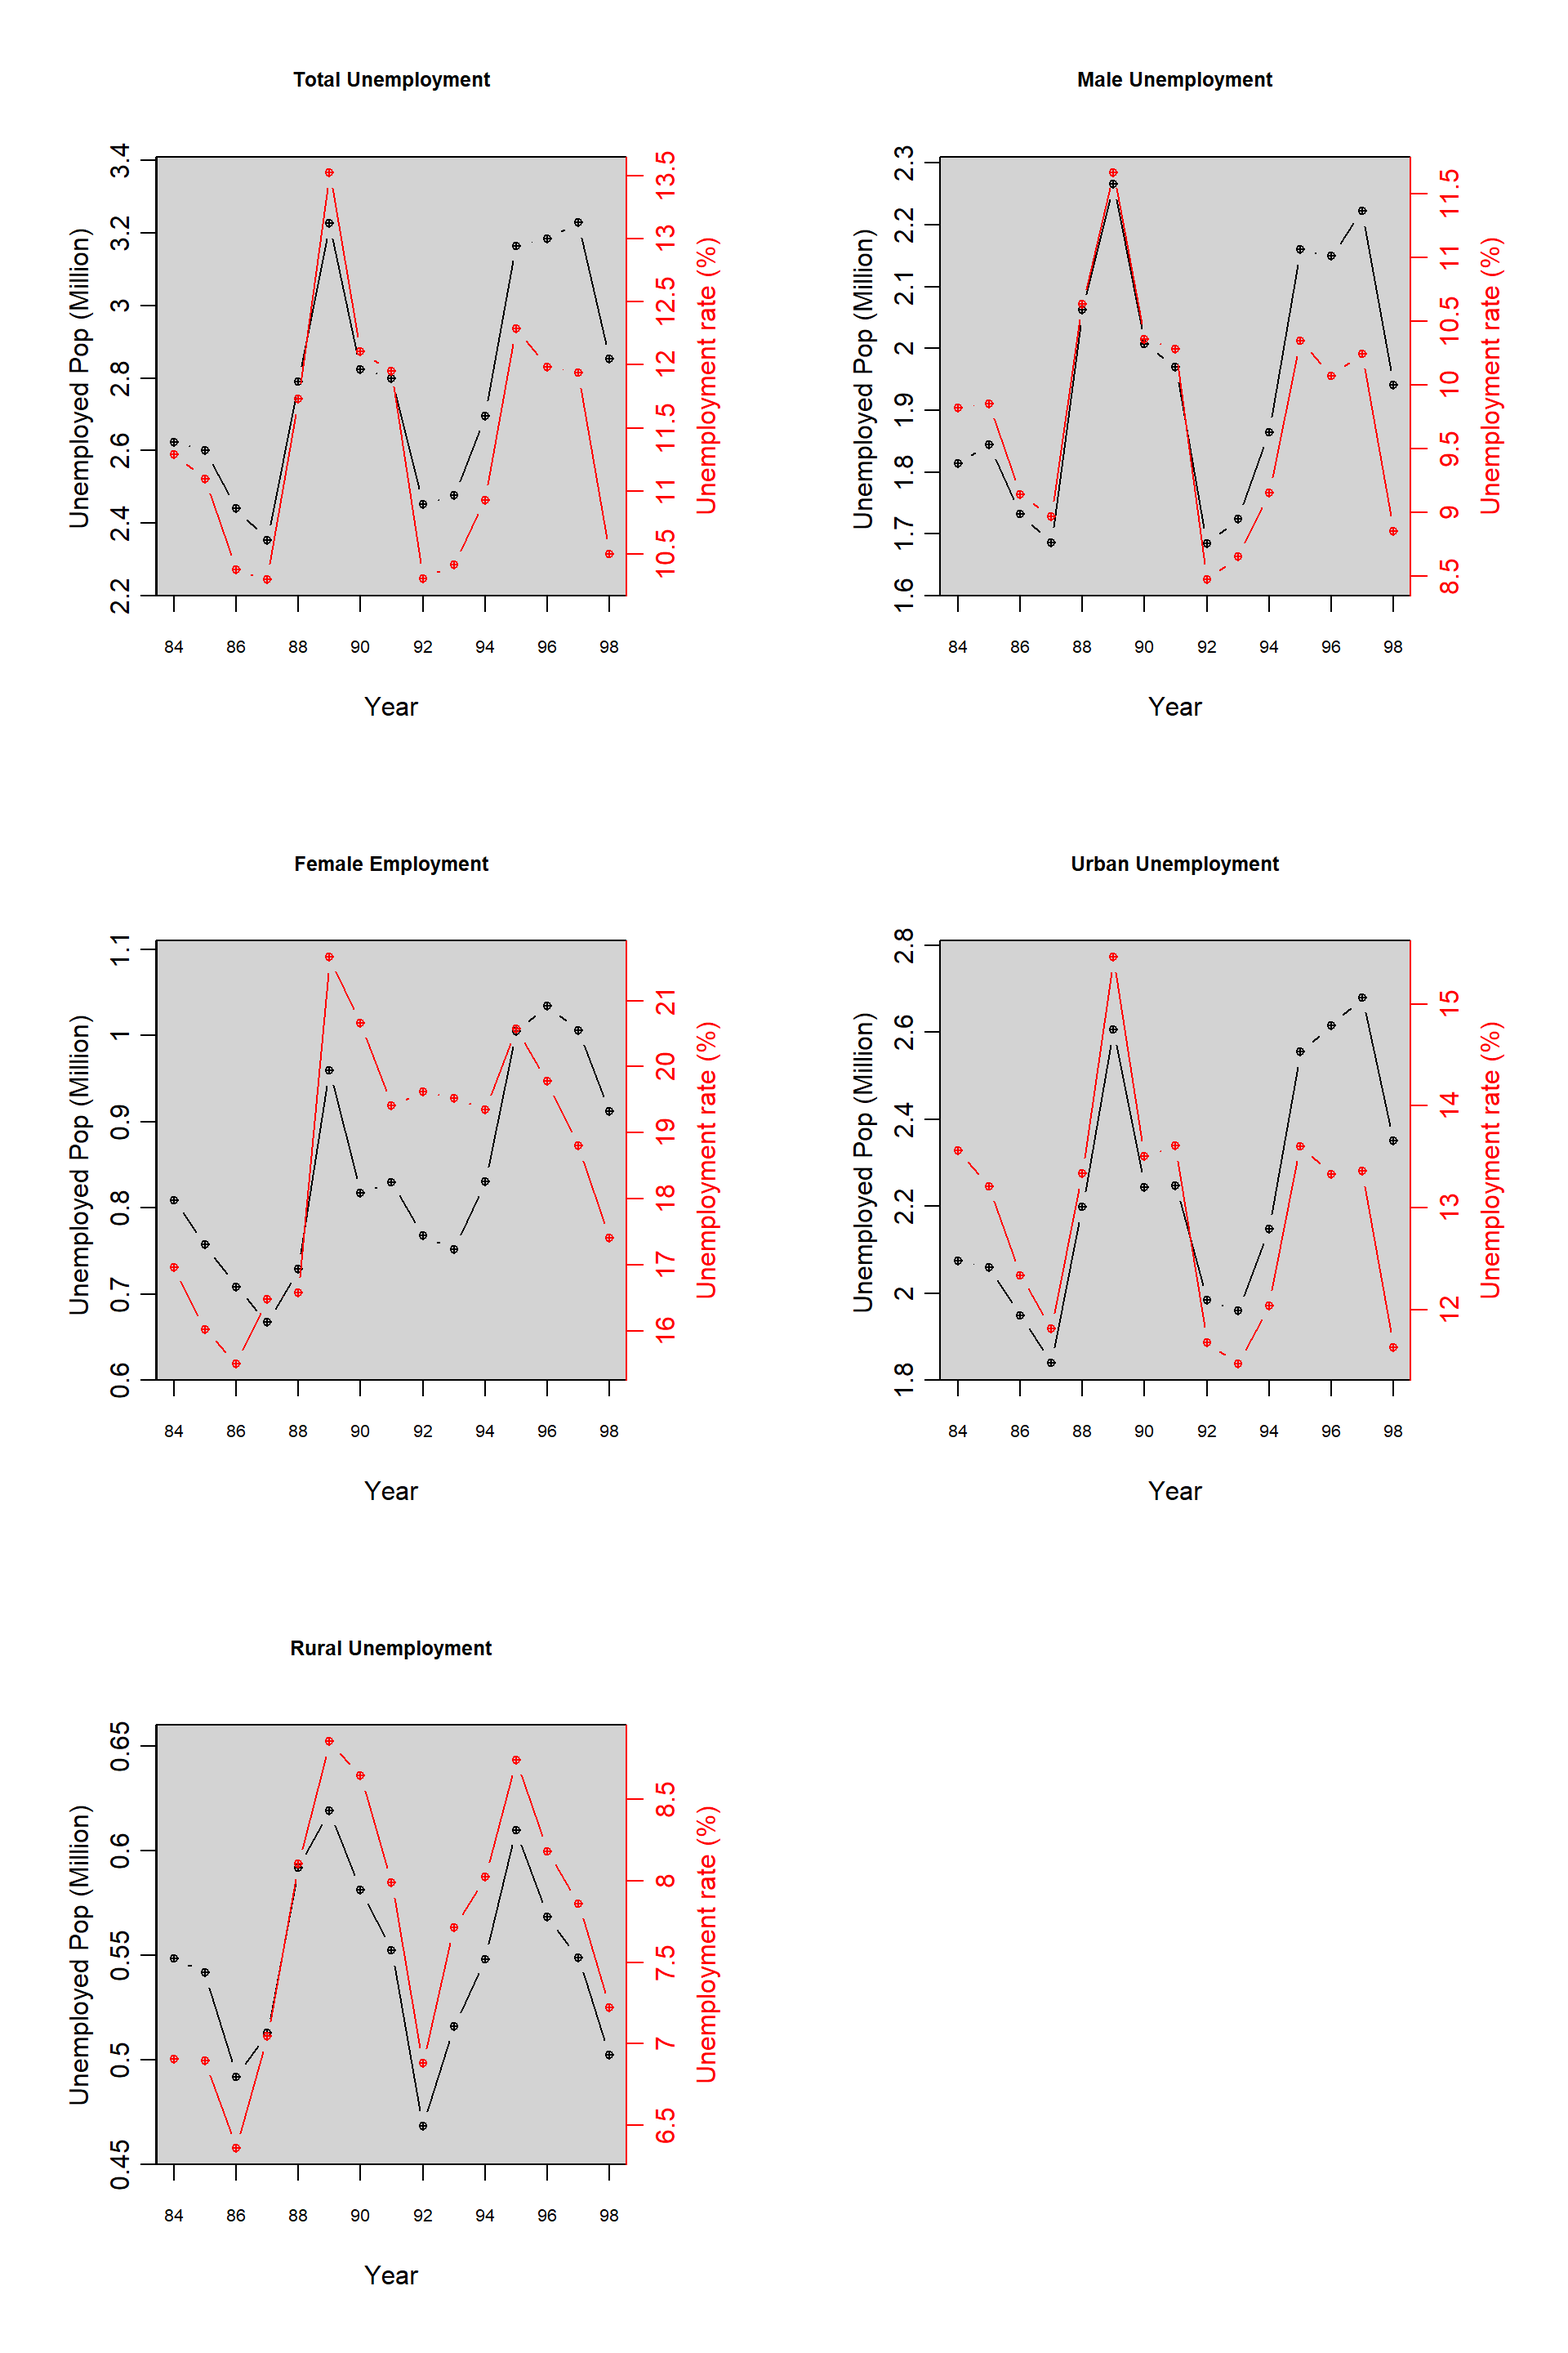
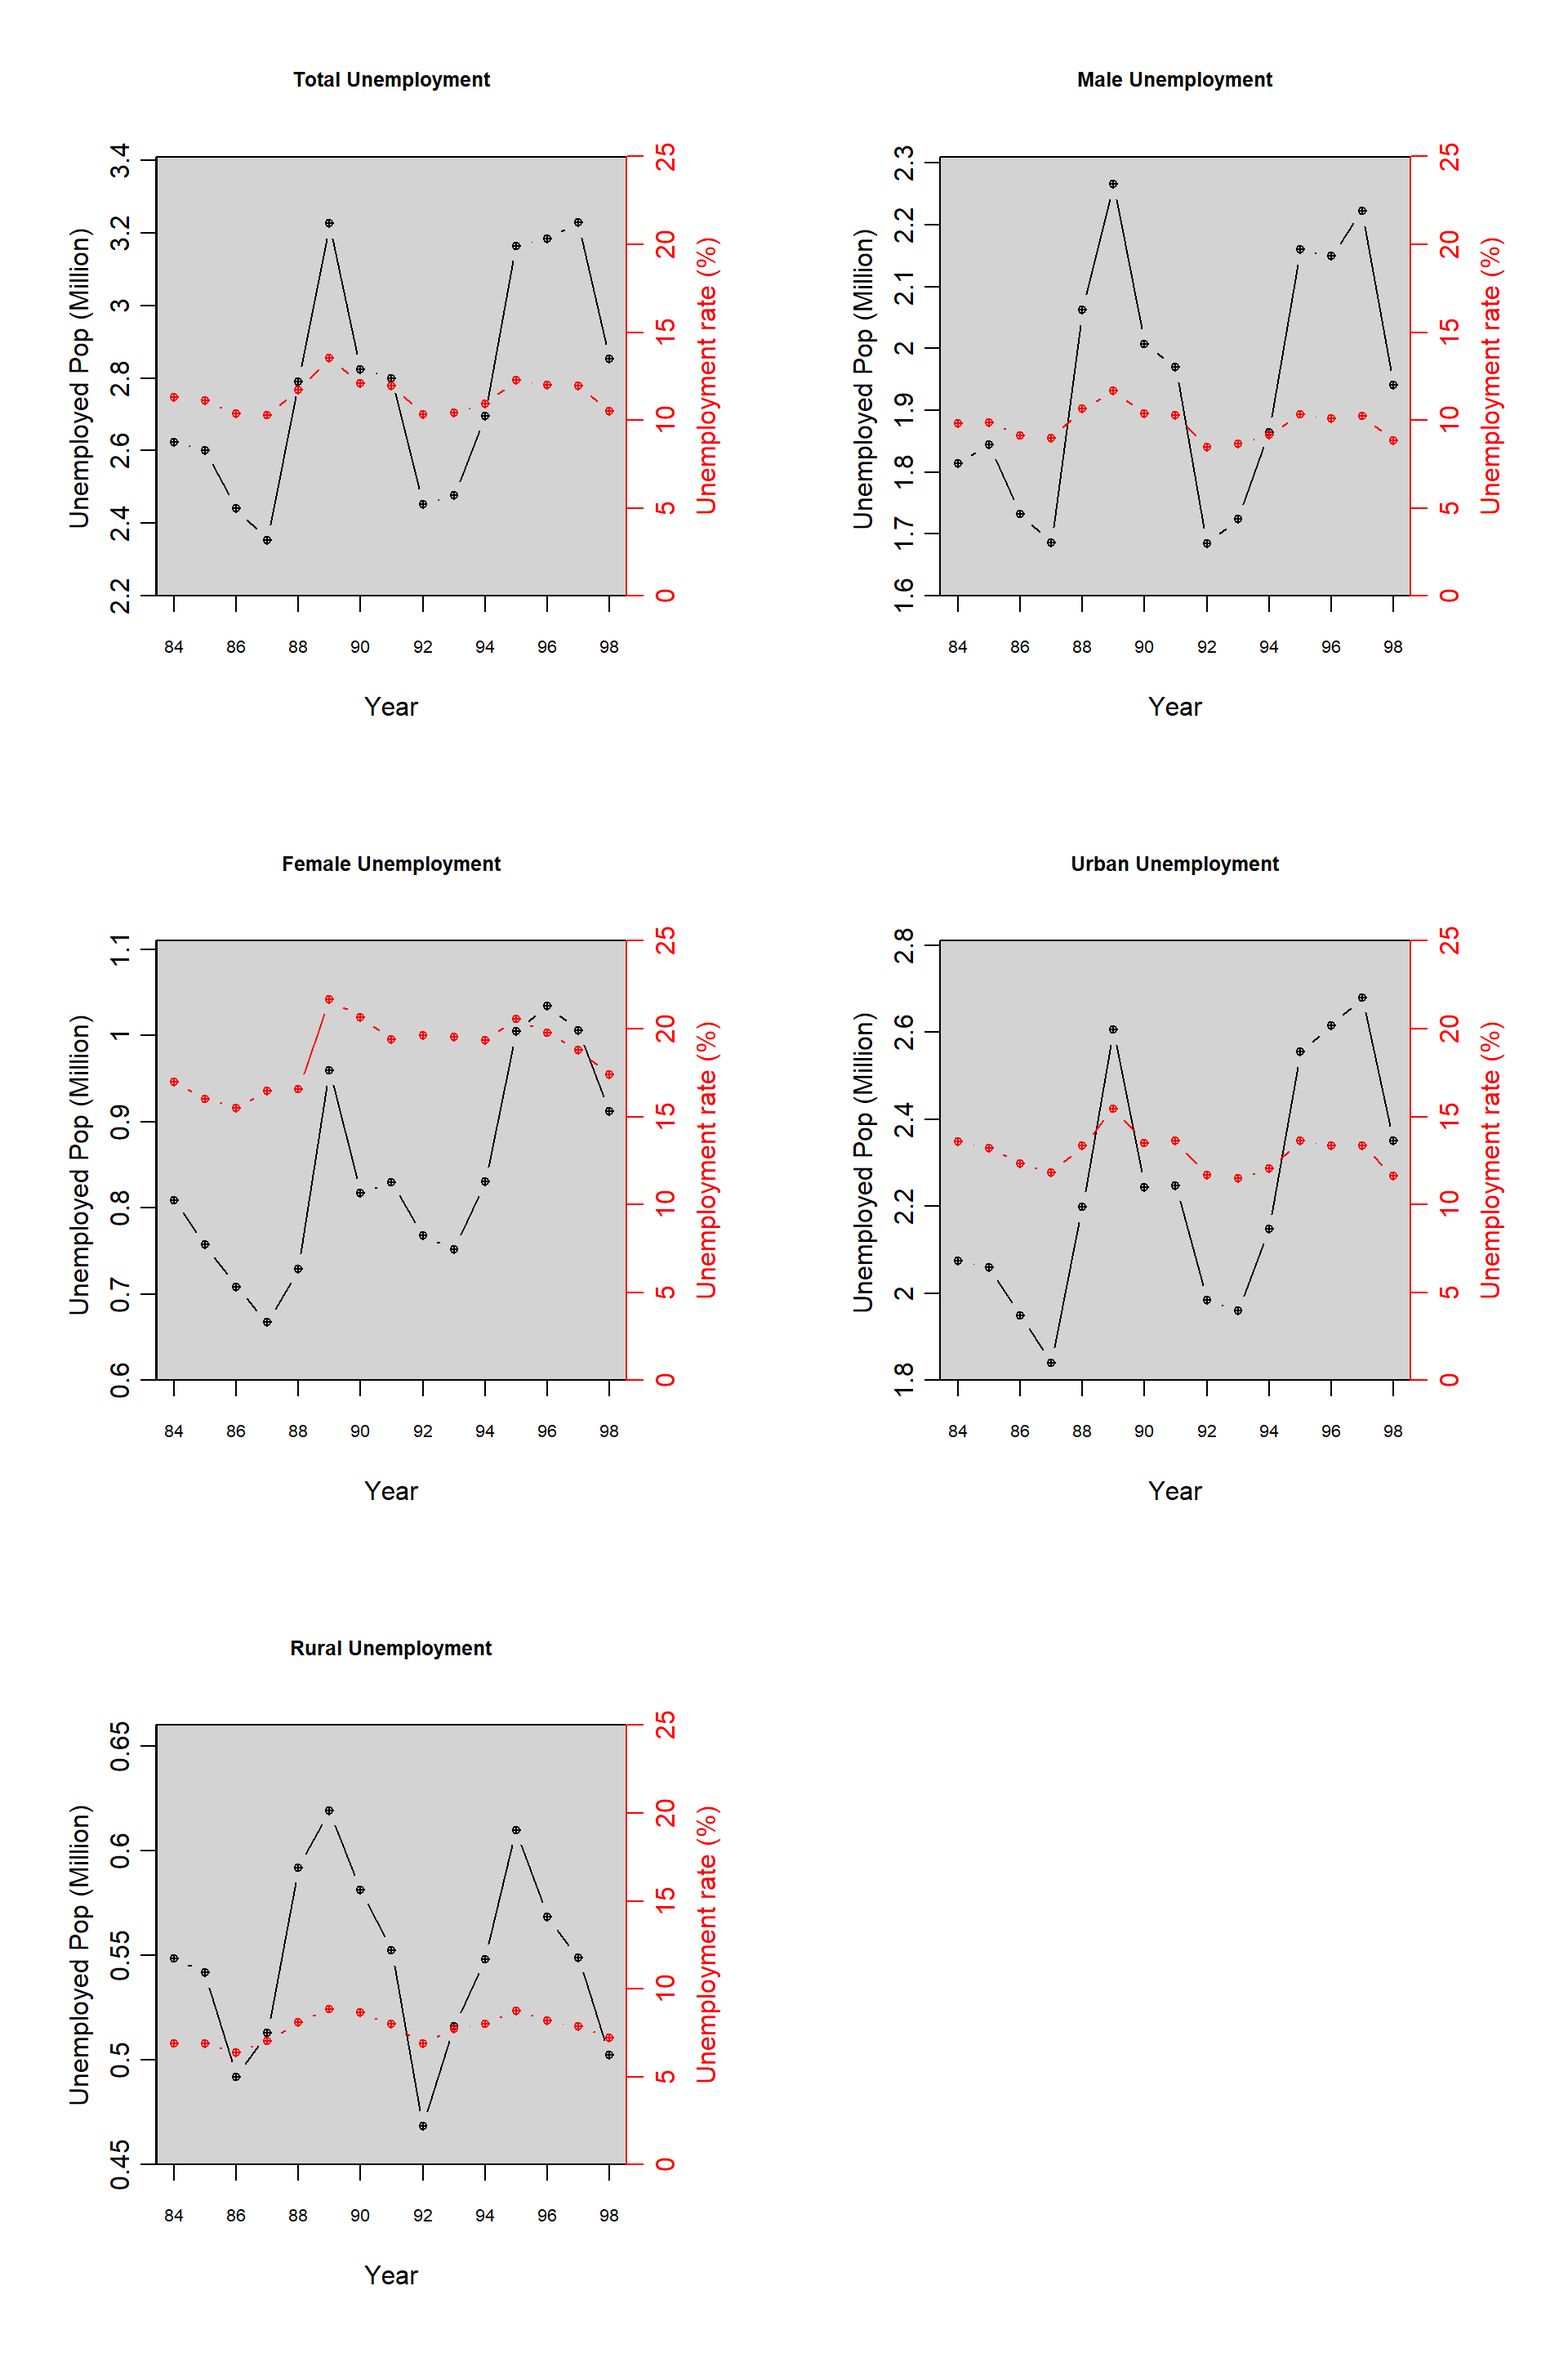
commit result of changing rylim

diff --git a/docs/descriptive-evidence.html b/docs/descriptive-evidence.html
@@ -229,7 +229,7 @@ code span.wa { color: #60a0b0; font-weight: bold; font-style: italic; } /* Warni
 <span id="cb1-4"><a href="descriptive-evidence.html#cb1-4" aria-hidden="true" tabindex="-1"></a>  <span class="fu">mutate</span>(<span class="at">EMPR_T =</span> Total_Employment<span class="sc">/</span>Total_Participation,</span>
 <span id="cb1-5"><a href="descriptive-evidence.html#cb1-5" aria-hidden="true" tabindex="-1"></a>         <span class="at">EMPR_M =</span> Male_Employment<span class="sc">/</span>Male_Participation,</span>
 <span id="cb1-6"><a href="descriptive-evidence.html#cb1-6" aria-hidden="true" tabindex="-1"></a>         <span class="at">EMPR_F =</span> Female_Employment<span class="sc">/</span>Female_Participation,</span>
-<span id="cb1-7"><a href="descriptive-evidence.html#cb1-7" aria-hidden="true" tabindex="-1"></a>         <span class="at">EMPR_U =</span> Urban_Employment<span class="sc">/</span>Total_Participation,</span>
+<span id="cb1-7"><a href="descriptive-evidence.html#cb1-7" aria-hidden="true" tabindex="-1"></a>         <span class="at">EMPR_U =</span> Urban_Employment<span class="sc">/</span>Urban_Participation,</span>
 <span id="cb1-8"><a href="descriptive-evidence.html#cb1-8" aria-hidden="true" tabindex="-1"></a>         <span class="at">EMPR_R =</span> Rural_Employment<span class="sc">/</span>Rural_Participation,</span>
 <span id="cb1-9"><a href="descriptive-evidence.html#cb1-9" aria-hidden="true" tabindex="-1"></a>         <span class="at">UMPR_T =</span> Total_Unemployment <span class="sc">/</span> Total_Participation,</span>
 <span id="cb1-10"><a href="descriptive-evidence.html#cb1-10" aria-hidden="true" tabindex="-1"></a>         <span class="at">UMPR_M =</span> Male_Unemployment<span class="sc">/</span>Male_Participation,</span>
@@ -239,21 +239,22 @@ code span.wa { color: #60a0b0; font-weight: bold; font-style: italic; } /* Warni
 <span id="cb1-14"><a href="descriptive-evidence.html#cb1-14" aria-hidden="true" tabindex="-1"></a>  <span class="fu">mutate_at</span>(<span class="fu">vars</span>(Male_Employment<span class="sc">:</span>Urban_Participation),<span class="st">`</span><span class="at">/</span><span class="st">`</span>,<span class="dv">1000000</span>)<span class="sc">%&gt;%</span></span>
 <span id="cb1-15"><a href="descriptive-evidence.html#cb1-15" aria-hidden="true" tabindex="-1"></a>  <span class="fu">mutate_at</span>(<span class="fu">vars</span>(EMPR_T<span class="sc">:</span>UMPR_R),<span class="st">`</span><span class="at">*</span><span class="st">`</span>,<span class="dv">100</span>)</span>
 <span id="cb1-16"><a href="descriptive-evidence.html#cb1-16" aria-hidden="true" tabindex="-1"></a></span>
-<span id="cb1-17"><a href="descriptive-evidence.html#cb1-17" aria-hidden="true" tabindex="-1"></a>LFSINP2 <span class="ot">&lt;-</span> <span class="cf">function</span>(df,<span class="at">x =</span> <span class="st">&quot;&quot;</span>,<span class="at">y1 =</span> <span class="st">&quot;&quot;</span>, <span class="at">y2 =</span> <span class="st">&quot;&quot;</span>, <span class="at">Main =</span> <span class="st">&quot;&quot;</span>,<span class="at">y1l =</span> <span class="st">&quot;&quot;</span> ,<span class="at">y2l =</span> <span class="st">&quot;&quot;</span>,<span class="at">y1lim =</span><span class="cn">NULL</span> ){</span>
-<span id="cb1-18"><a href="descriptive-evidence.html#cb1-18" aria-hidden="true" tabindex="-1"></a>  P <span class="ot">&lt;-</span> <span class="fu">twoord.plot</span>(<span class="at">lx =</span> x, <span class="at">ly =</span>y1 , <span class="at">rx =</span> x , <span class="at">ry =</span>y2, <span class="at">data =</span> df,<span class="at">lylim =</span> y1lim,<span class="at">mar =</span> <span class="fu">c</span>(<span class="dv">6</span>,<span class="dv">5</span>,<span class="dv">5</span>,<span class="dv">5</span>),</span>
-<span id="cb1-19"><a href="descriptive-evidence.html#cb1-19" aria-hidden="true" tabindex="-1"></a>                   <span class="at">main =</span> Main , <span class="at">ylab =</span>y1l, <span class="at">rylab =</span> y2l , <span class="at">lpch =</span> <span class="dv">10</span>,<span class="at">rpch =</span> <span class="dv">10</span>,</span>
-<span id="cb1-20"><a href="descriptive-evidence.html#cb1-20" aria-hidden="true" tabindex="-1"></a>                   <span class="at">lcol =</span> <span class="st">&quot;black&quot;</span> ,<span class="at">rcol =</span> <span class="st">&quot;red&quot;</span>,<span class="at">xlab =</span> <span class="st">&quot;Year&quot;</span>,</span>
-<span id="cb1-21"><a href="descriptive-evidence.html#cb1-21" aria-hidden="true" tabindex="-1"></a>                   <span class="at">do.first=</span><span class="st">&quot;plot_bg()&quot;</span>)</span>
-<span id="cb1-22"><a href="descriptive-evidence.html#cb1-22" aria-hidden="true" tabindex="-1"></a>}</span>
-<span id="cb1-23"><a href="descriptive-evidence.html#cb1-23" aria-hidden="true" tabindex="-1"></a></span>
-<span id="cb1-24"><a href="descriptive-evidence.html#cb1-24" aria-hidden="true" tabindex="-1"></a>LFSINP1  <span class="ot">&lt;-</span> <span class="cf">function</span>(Var, <span class="at">xlab =</span> <span class="st">&quot;&quot;</span>, <span class="at">ylab =</span> <span class="st">&quot;&quot;</span>, <span class="at">Main =</span> <span class="st">&quot;&quot;</span>) {</span>
-<span id="cb1-25"><a href="descriptive-evidence.html#cb1-25" aria-hidden="true" tabindex="-1"></a>  </span>
-<span id="cb1-26"><a href="descriptive-evidence.html#cb1-26" aria-hidden="true" tabindex="-1"></a>p <span class="ot">&lt;-</span> <span class="fu">ggplot</span>(<span class="at">data =</span> LFS_Indicators_Y,<span class="at">mapping =</span> <span class="fu">aes</span>(<span class="at">x=</span>Year,<span class="at">y=</span><span class="fu">eval</span>(<span class="fu">parse</span>(<span class="at">text =</span>Var ))))<span class="sc">+</span></span>
-<span id="cb1-27"><a href="descriptive-evidence.html#cb1-27" aria-hidden="true" tabindex="-1"></a>  <span class="fu">geom_point</span>(<span class="at">color =</span> <span class="st">&quot;Red&quot;</span>,<span class="at">shape =</span> <span class="dv">17</span>)<span class="sc">+</span></span>
-<span id="cb1-28"><a href="descriptive-evidence.html#cb1-28" aria-hidden="true" tabindex="-1"></a>  <span class="fu">geom_line</span>()<span class="sc">+</span></span>
-<span id="cb1-29"><a href="descriptive-evidence.html#cb1-29" aria-hidden="true" tabindex="-1"></a>  <span class="fu">labs</span>(<span class="at">title =</span> Main,<span class="at">x=</span>xlab,<span class="at">y=</span>ylab)</span>
-<span id="cb1-30"><a href="descriptive-evidence.html#cb1-30" aria-hidden="true" tabindex="-1"></a>  <span class="fu">return</span>(p)</span>
-<span id="cb1-31"><a href="descriptive-evidence.html#cb1-31" aria-hidden="true" tabindex="-1"></a>}</span></code></pre></div>
+<span id="cb1-17"><a href="descriptive-evidence.html#cb1-17" aria-hidden="true" tabindex="-1"></a>LFSINP2 <span class="ot">&lt;-</span> <span class="cf">function</span>(df,<span class="at">x =</span> <span class="st">&quot;&quot;</span>,<span class="at">y1 =</span> <span class="st">&quot;&quot;</span>, <span class="at">y2 =</span> <span class="st">&quot;&quot;</span>, <span class="at">Main =</span> <span class="st">&quot;&quot;</span>,<span class="at">y1l =</span> <span class="st">&quot;&quot;</span> ,<span class="at">y2l =</span> <span class="st">&quot;&quot;</span>,<span class="at">y1lim =</span><span class="cn">NULL</span> ,<span class="at">y2lim =</span> <span class="cn">NULL</span>){</span>
+<span id="cb1-18"><a href="descriptive-evidence.html#cb1-18" aria-hidden="true" tabindex="-1"></a>  P <span class="ot">&lt;-</span> <span class="fu">twoord.plot</span>(<span class="at">lx =</span> x, <span class="at">ly =</span>y1 , <span class="at">rx =</span> x , <span class="at">ry =</span>y2, <span class="at">data =</span> df,</span>
+<span id="cb1-19"><a href="descriptive-evidence.html#cb1-19" aria-hidden="true" tabindex="-1"></a>                   <span class="at">lylim =</span> y1lim,<span class="at">rylim =</span> y2lim, <span class="at">mar =</span> <span class="fu">c</span>(<span class="dv">6</span>,<span class="dv">5</span>,<span class="dv">5</span>,<span class="dv">5</span>),</span>
+<span id="cb1-20"><a href="descriptive-evidence.html#cb1-20" aria-hidden="true" tabindex="-1"></a>                   <span class="at">main =</span> Main , <span class="at">ylab =</span>y1l, <span class="at">rylab =</span> y2l , <span class="at">lpch =</span> <span class="dv">10</span>,<span class="at">rpch =</span> <span class="dv">10</span>,</span>
+<span id="cb1-21"><a href="descriptive-evidence.html#cb1-21" aria-hidden="true" tabindex="-1"></a>                   <span class="at">lcol =</span> <span class="st">&quot;black&quot;</span> ,<span class="at">rcol =</span> <span class="st">&quot;red&quot;</span>,<span class="at">xlab =</span> <span class="st">&quot;Year&quot;</span>,</span>
+<span id="cb1-22"><a href="descriptive-evidence.html#cb1-22" aria-hidden="true" tabindex="-1"></a>                   <span class="at">do.first=</span><span class="st">&quot;plot_bg()&quot;</span>)</span>
+<span id="cb1-23"><a href="descriptive-evidence.html#cb1-23" aria-hidden="true" tabindex="-1"></a>}</span>
+<span id="cb1-24"><a href="descriptive-evidence.html#cb1-24" aria-hidden="true" tabindex="-1"></a></span>
+<span id="cb1-25"><a href="descriptive-evidence.html#cb1-25" aria-hidden="true" tabindex="-1"></a>LFSINP1  <span class="ot">&lt;-</span> <span class="cf">function</span>(Var, <span class="at">xlab =</span> <span class="st">&quot;&quot;</span>, <span class="at">ylab =</span> <span class="st">&quot;&quot;</span>, <span class="at">Main =</span> <span class="st">&quot;&quot;</span>) {</span>
+<span id="cb1-26"><a href="descriptive-evidence.html#cb1-26" aria-hidden="true" tabindex="-1"></a>  </span>
+<span id="cb1-27"><a href="descriptive-evidence.html#cb1-27" aria-hidden="true" tabindex="-1"></a>p <span class="ot">&lt;-</span> <span class="fu">ggplot</span>(<span class="at">data =</span> LFS_Indicators_Y,<span class="at">mapping =</span> <span class="fu">aes</span>(<span class="at">x=</span>Year,<span class="at">y=</span><span class="fu">eval</span>(<span class="fu">parse</span>(<span class="at">text =</span>Var ))))<span class="sc">+</span></span>
+<span id="cb1-28"><a href="descriptive-evidence.html#cb1-28" aria-hidden="true" tabindex="-1"></a>  <span class="fu">geom_point</span>(<span class="at">color =</span> <span class="st">&quot;Red&quot;</span>,<span class="at">shape =</span> <span class="dv">17</span>)<span class="sc">+</span></span>
+<span id="cb1-29"><a href="descriptive-evidence.html#cb1-29" aria-hidden="true" tabindex="-1"></a>  <span class="fu">geom_line</span>()<span class="sc">+</span></span>
+<span id="cb1-30"><a href="descriptive-evidence.html#cb1-30" aria-hidden="true" tabindex="-1"></a>  <span class="fu">labs</span>(<span class="at">title =</span> Main,<span class="at">x=</span>xlab,<span class="at">y=</span>ylab)</span>
+<span id="cb1-31"><a href="descriptive-evidence.html#cb1-31" aria-hidden="true" tabindex="-1"></a>  <span class="fu">return</span>(p)</span>
+<span id="cb1-32"><a href="descriptive-evidence.html#cb1-32" aria-hidden="true" tabindex="-1"></a>}</span></code></pre></div>
 <div id="employment" class="section level2" number="6.1">
 <h2><span class="header-section-number">6.1</span> Employment</h2>
 <p><img src="bookdown-demo_files/figure-html/unnamed-chunk-3-1.png" width="960" /></p>
